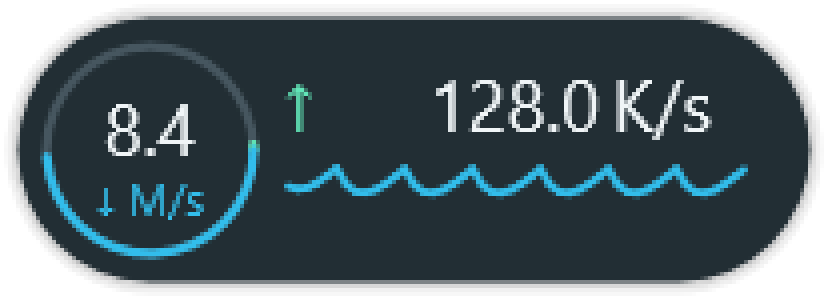
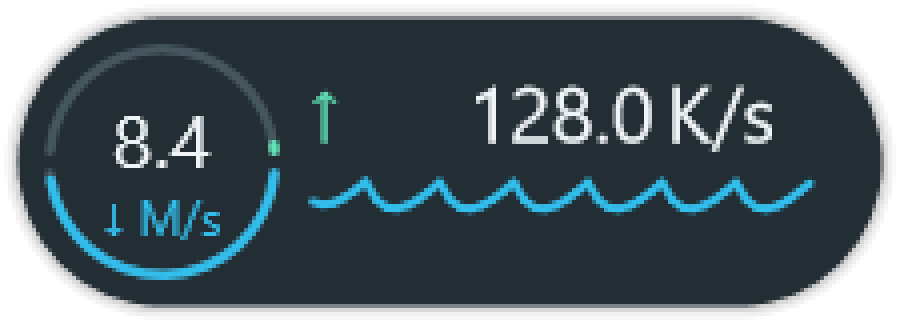
fix: enlarge floating display and separate semicircle joints
Increase the capsule to 144x48 DIP and scale vectors and text directly
at the target DPI. Keep the shadow margin unchanged and leave round-cap
gaps in both tracks and activity arcs to match the visual reference.

Cover idle and full-ring gaps at four DPIs and refresh visual evidence.

diff --git a/src/WinMon/FloatingRateRenderer.cpp b/src/WinMon/FloatingRateRenderer.cpp
@@ -4,6 +4,8 @@
 
 namespace
 {
+constexpr float kBodyScale = 12.0f / 11.0f; // 132x44 design coordinates to 144x48 DIP.
+
 void Check(HRESULT result) { if (FAILED(result)) throw result; }
 double Rate(double value) noexcept { return std::isfinite(value) && value > 0 ? value : 0; }
 }
@@ -21,14 +23,14 @@ FloatingRateRenderer::~FloatingRateRenderer()
 
 SIZE FloatingRateRenderer::SizeForDpi(UINT dpi) noexcept
 {
-    return {MulDiv(138, static_cast<int>(dpi), 96), MulDiv(50, static_cast<int>(dpi), 96)};
+    return {MulDiv(150, static_cast<int>(dpi), 96), MulDiv(54, static_cast<int>(dpi), 96)};
 }
 
 bool FloatingRateRenderer::HitTest(POINT client, UINT dpi) noexcept
 {
     if (!dpi) return false;
-    const float x = client.x * 96.0f / dpi - 3;
-    const float y = client.y * 96.0f / dpi - 25;
+    const float x = (client.x * 96.0f / dpi - 3) / kBodyScale;
+    const float y = (client.y * 96.0f / dpi - 3) / kBodyScale - 22;
     const float dx = x - std::clamp(x, 22.0f, 110.0f);
     return dx * dx + y * y <= 22 * 22;
 }
@@ -129,14 +131,15 @@ bool FloatingRateRenderer::Render(const std::wstring& upload, const std::wstring
             target_->SetTextAntialiasMode(D2D1_TEXT_ANTIALIAS_MODE_GRAYSCALE);
             dpi_ = dpi;
         }
+        target_->SetTransform(D2D1::Matrix3x2F::Identity());
         target_->BeginDraw();
         target_->Clear(D2D1::ColorF(0, 0.0f));
         const auto color = [&](UINT32 rgb, float alpha = 1) { brush_->SetColor(D2D1::ColorF(rgb, alpha)); };
         // Two quiet contours keep the entire shadow inside the 3 DIP margin.
         color(0x000000, 0.06f);
-        target_->FillRoundedRectangle(D2D1::RoundedRect(D2D1::RectF(1, 1, 137, 49), 24, 24), brush_.Get());
+        target_->FillRoundedRectangle(D2D1::RoundedRect(D2D1::RectF(1, 1, 149, 53), 26, 26), brush_.Get());
         color(0x000000, 0.10f);
-        target_->FillRoundedRectangle(D2D1::RoundedRect(D2D1::RectF(2, 2, 136, 48), 23, 23), brush_.Get());
+        target_->FillRoundedRectangle(D2D1::RoundedRect(D2D1::RectF(2, 2, 148, 52), 25, 25), brush_.Get());
         Check(target_->EndDraw());
         const auto copyPixels = [&]
         {
@@ -148,22 +151,25 @@ bool FloatingRateRenderer::Render(const std::wstring& upload, const std::wstring
         auto shadow = copyPixels();
         target_->BeginDraw();
         target_->Clear(D2D1::ColorF(0, 0.0f));
+        // Scale vectors and glyphs before rasterization, leaving the shadow margin at 3 DIP.
+        target_->SetTransform(D2D1::Matrix3x2F::Scale(kBodyScale, kBodyScale, D2D1::Point2F(3, 3)));
         color(0x222e34);
         target_->FillRoundedRectangle(D2D1::RoundedRect(D2D1::RectF(3, 3, 135, 47), 22, 22), brush_.Get());
-        color(0x46565f);
-        target_->DrawEllipse(D2D1::Ellipse(D2D1::Point2F(25, 25), 17.25f, 17.25f), brush_.Get(), 1.5f);
         double maximum = 1000;
         for (size_t i = 48 - count_; i < 48; ++i)
             maximum = std::max({maximum, uploadHistory_[i], downloadHistory_[i]});
-        const auto arc = [&](double value, bool up)
+        const auto arc = [&](double ratio, bool up, UINT32 rgb)
         {
-            if (value <= 0) return;
-            const double angle = std::clamp(value / maximum, 0.0, 1.0) * 3.141592653589793;
+            if (ratio <= 0) return;
+            // Leave about 2 DIP of clear space after accounting for the round caps.
+            constexpr double gapAngle = 0.1;
+            const double angle = gapAngle + std::clamp(ratio, 0.0, 1.0) * (3.141592653589793 - 2 * gapAngle);
             ComPtr<ID2D1PathGeometry> path;
             ComPtr<ID2D1GeometrySink> sink;
             Check(factory_->CreatePathGeometry(&path));
             Check(path->Open(&sink));
-            sink->BeginFigure(D2D1::Point2F(42.25f, 25), D2D1_FIGURE_BEGIN_HOLLOW);
+            sink->BeginFigure(D2D1::Point2F(25 + 17.25f * static_cast<float>(std::cos(gapAngle)),
+                25 + (up ? -17.25f : 17.25f) * static_cast<float>(std::sin(gapAngle))), D2D1_FIGURE_BEGIN_HOLLOW);
             sink->AddArc(D2D1::ArcSegment(
                 D2D1::Point2F(25 + 17.25f * static_cast<float>(std::cos(angle)),
                     25 + (up ? -17.25f : 17.25f) * static_cast<float>(std::sin(angle))),
@@ -172,11 +178,13 @@ bool FloatingRateRenderer::Render(const std::wstring& upload, const std::wstring
                 D2D1_ARC_SIZE_SMALL));
             sink->EndFigure(D2D1_FIGURE_END_OPEN);
             Check(sink->Close());
-            color(up ? 0x61e5b7 : 0x32bdeb);
+            color(rgb);
             target_->DrawGeometry(path.Get(), brush_.Get(), 1.5f, stroke_.Get());
         };
-        arc(upload_ > 0 ? uploadHistory_.back() : 0, true);
-        arc(download_ > 0 ? downloadHistory_.back() : 0, false);
+        arc(1, true, 0x46565f);
+        arc(1, false, 0x46565f);
+        arc(upload_ > 0 ? uploadHistory_.back() / maximum : 0, true, 0x61e5b7);
+        arc(download_ > 0 ? downloadHistory_.back() / maximum : 0, false, 0x32bdeb);
         if (count_ > 1)
         {
             double peak = 1000;

diff --git a/tests/FloatingRateRendererTests/FloatingRateRendererTests.cpp b/tests/FloatingRateRendererTests/FloatingRateRendererTests.cpp
@@ -36,14 +36,14 @@ int main(int argc, char** argv)
     LOGFONTW font{};
     wcscpy_s(font.lfFaceName, L"Segoe UI");
     Require(renderer.Render(L"0.0 K/s", L"0.0 K/s", font, 96), "offscreen render");
-    Require(renderer.PixelSize().cx == 138 && renderer.PixelSize().cy == 50, "132x44 body plus shadow");
+    Require(renderer.PixelSize().cx == 150 && renderer.PixelSize().cy == 54, "144x48 body plus shadow");
     bool partial = false;
     const auto& pixels = renderer.Pixels();
     for (size_t i = 0; i < pixels.size(); ++i)
     {
         const DWORD p = pixels[i], a = p >> 24;
         Require((p & 255) <= a && ((p >> 8) & 255) <= a && ((p >> 16) & 255) <= a, "premultiplied alpha");
-        if (i < 138 || i >= pixels.size() - 138 || i % 138 == 0 || i % 138 == 137)
+        if (i < 150 || i >= pixels.size() - 150 || i % 150 == 0 || i % 150 == 149)
             Require(p == 0, "transparent canvas boundary");
         partial |= a > 0 && a < 255;
     }
@@ -52,10 +52,12 @@ int main(int argc, char** argv)
 
     const auto colored = [&](int x, int y, bool up)
     {
+        x = 3 + (x - 3) * 12 / 11;
+        y = 3 + (y - 3) * 12 / 11;
         for (int dy = -1; dy <= 1; ++dy)
             for (int dx = -1; dx <= 1; ++dx)
             {
-                DWORD p = renderer.Pixels()[(y + dy) * 138 + x + dx];
+                DWORD p = renderer.Pixels()[(y + dy) * 150 + x + dx];
                 int b = p & 255, g = (p >> 8) & 255, r = (p >> 16) & 255;
                 if (up ? (g > 120 && g > b + 15 && g > r + 30) : (b > 140 && b > g + 15 && b > r + 50)) return true;
             }
@@ -75,6 +77,19 @@ int main(int argc, char** argv)
     renderer.AddSample(1000, 1000);
     render();
     Require(colored(13, 13, true) && colored(13, 37, false), "full semicircles reach left");
+    for (UINT dpi : {96u, 120u, 144u, 192u})
+    {
+        for (bool active : {false, true})
+        {
+            renderer.ResetHistory();
+            if (active) renderer.AddSample(1000, 1000);
+            Require(renderer.Render(L"0.0 K/s", L"0.0 K/s", font, dpi), "joint gap frame");
+            const int y = MulDiv(27, static_cast<int>(dpi), 96);
+            for (int x : {MulDiv(8, static_cast<int>(dpi), 96), MulDiv(46, static_cast<int>(dpi), 96)})
+                Require(renderer.Pixels()[y * renderer.PixelSize().cx + x] == 0xff222e34,
+                    "tracks and full arcs leave capsule-colored gaps at both joints");
+        }
+    }
     renderer.AddSample(0, 0);
     render();
     Require(!colored(37, 13, true) && !colored(37, 37, false), "raw zero immediately clears arcs");
@@ -125,8 +140,8 @@ int main(int argc, char** argv)
                 wcscpy_s(font.lfFaceName, family);
                 Require(renderer.Render(value, value, font, dpi), "DPI/font/long value matrix");
                 const SIZE size = renderer.PixelSize();
-                Require(size.cx == (dpi == 96 ? 138 : dpi == 120 ? 173 : dpi == 144 ? 207 : 276), "scaled width");
-                Require(size.cy == (dpi == 96 ? 50 : dpi == 120 ? 63 : dpi == 144 ? 75 : 100), "scaled height");
+                Require(size.cx == (dpi == 96 ? 150 : dpi == 120 ? 188 : dpi == 144 ? 225 : 300), "scaled width");
+                Require(size.cy == (dpi == 96 ? 54 : dpi == 120 ? 68 : dpi == 144 ? 81 : 108), "scaled height");
                 for (size_t i = 0; i < renderer.Pixels().size(); ++i)
                 {
                     DWORD p = renderer.Pixels()[i], a = p >> 24;

diff --git a/.scratch/compact-floating-rate-display/spec.md b/.scratch/compact-floating-rate-display/spec.md
@@ -12,7 +12,7 @@ Status: ready-for-human
 
 ## Solution
 
-实现约 3:1 的深色胶囊，主体尺寸为 **132×44 DIP**。左侧圆环内显示 Download Rate 数值和单位；右侧上方显示 Upload Rate，下方显示近期 Download Rate 曲线。
+实现约 3:1 的深色胶囊，主体尺寸为 **144×48 DIP**。左侧圆环内显示 Download Rate 数值和单位；右侧上方显示 Upload Rate，下方显示近期 Download Rate 曲线。
 
 圆环沿水平方向分成独立的上下半环：
 
@@ -63,11 +63,11 @@ Status: ready-for-human
 
 ### 外观与排版
 
-- 主体 132×44 DIP，圆角半径 22 DIP，约 3:1。左侧环外径约 36 DIP，主体内留约 4 DIP 边距，线宽约 1.5 DIP，使用圆头端点。
+- 主体 144×48 DIP，圆角半径 24 DIP，约 3:1。左侧环外径约 39 DIP，主体内留约 4 DIP 边距，线宽约 1.64 DIP，使用圆头端点。
 - 主体深灰蓝以 #222E34 为基准，主要文字近白，Upload Rate 青绿、Download Rate 青蓝；暗轨道低对比但可见。主体保持足够不透明度保证读数，透明度主要用于边缘和轻微阴影。
 - 阴影透明边距上限每侧约 3 DIP，另计窗口尺寸；不得把主体尺寸与含阴影窗口尺寸混用。阴影不接收点击，胶囊主体可拖动和打开菜单。
 - 左侧为下载数值，下方为向下箭头及单位；右上为向上箭头及完整上传读数，右下为单条下载趋势线。没有 CPU、百分比、加号按钮、标题或图外说明文字。
-- 文字尺寸起点：下载数值约 15 DIP、单位约 9 DIP、上传约 12 DIP。最终以真实尺寸可读性为准，而非机械复制放大图。
+- 文字尺寸起点：下载数值约 16.4 DIP、单位约 9.8 DIP、上传约 13.1 DIP。最终以真实尺寸可读性为准，而非机械复制放大图。
 - 使用现有 Rate Font 的字体族和可支持的样式，布局管理浮动显示的字号以维持紧凑尺寸；不修改已保存的 Rate Font。任务栏仍完整采用用户选定的字号。
 - 保留基数 1000、K/s／M/s／G/s、至少 K/s、固定一位小数的产品格式。原型中的整数上传示例不是格式规范；应显示例如 128.0 K/s。
 - 从现有格式化数据获得数字和单位，不重复实现速率单位规则。左右区域固定，不随数值跳动；以字体测量适配长读数，必要时仅缩小该数值字号，不能省略数值尾部或单位。至少验收 0.0 K/s、999.9 K/s、999.9 G/s 及更长数值。
@@ -75,7 +75,7 @@ Status: ready-for-human
 ### 半环方向及数值映射
 
 - 屏幕坐标 x 向右、y 向下，圆心为 C，半径为 r，比例 p 限制在 [0,1]。上传弧从右端开始，扫过角度 -180°×p；下载弧从右端开始，扫过角度 +180°×p。
-- 比例为 0.5 时，上传终点在顶部，下载终点在底部；比例为 1 时，两者终点均在左端。左右分界处可留极小视觉间隙，不能改变半环归属或增长方向。
+- 比例为 0.5 时，上传终点在顶部，下载终点在底部；比例为 1 时，两者终点均在左端。左右分界处必须留约 2 DIP 可见间隙，暗轨道与亮弧均断开、端点为圆头，不能改变半环归属或增长方向。
 - 零值直接不绘制亮弧，不能留下圆头形成的亮点。满值也不能画成整圆。
 - 以下映射属于本规格选定的实现默认值，用户确认的是形状、颜色和方向，并未指定带宽基准：沿用现有平滑系数 0.35 及近期历史的思路，取最近最多 48 个 Rate Sample 的双向平滑值的共同峰值作为标尺，标尺下限为 1000 bytes/s；各方向的比例为自身平滑值与标尺之比，线性映射并截断至 [0,1]。
 - 共同标尺使上下半环可比较；它表示近期相对强度，不表示网卡带宽使用百分比。旧峰值离开窗口时比例允许重新调整，不承诺固定速率永远对应固定弧长。
@@ -132,3 +132,7 @@ Status: ready-for-human
 ## Implementation progress — 2026-09-19
 
 三个 ticket 的实现已完成；Release 构建和 3 项 CTest 通过，双轴复审无剩余发现。真实设备场景尚待人工验收，详见 [验证报告](validation.md) 及各 ticket 状态。原 Out of Scope 中“不开始实现／不提交”的限制属于当时规格编写阶段；本次用户已明确要求执行 implement。
+
+### 用户视觉修订
+
+主体从 132×44 DIP 适度放大为 144×48 DIP，文字及图形同比放大约 9%，阴影边距仍为 3 DIP。对照原型，左右两端的上下半环及暗轨道均保留约 2 DIP 间隙。以上覆盖早期尺寸收敛记录。
